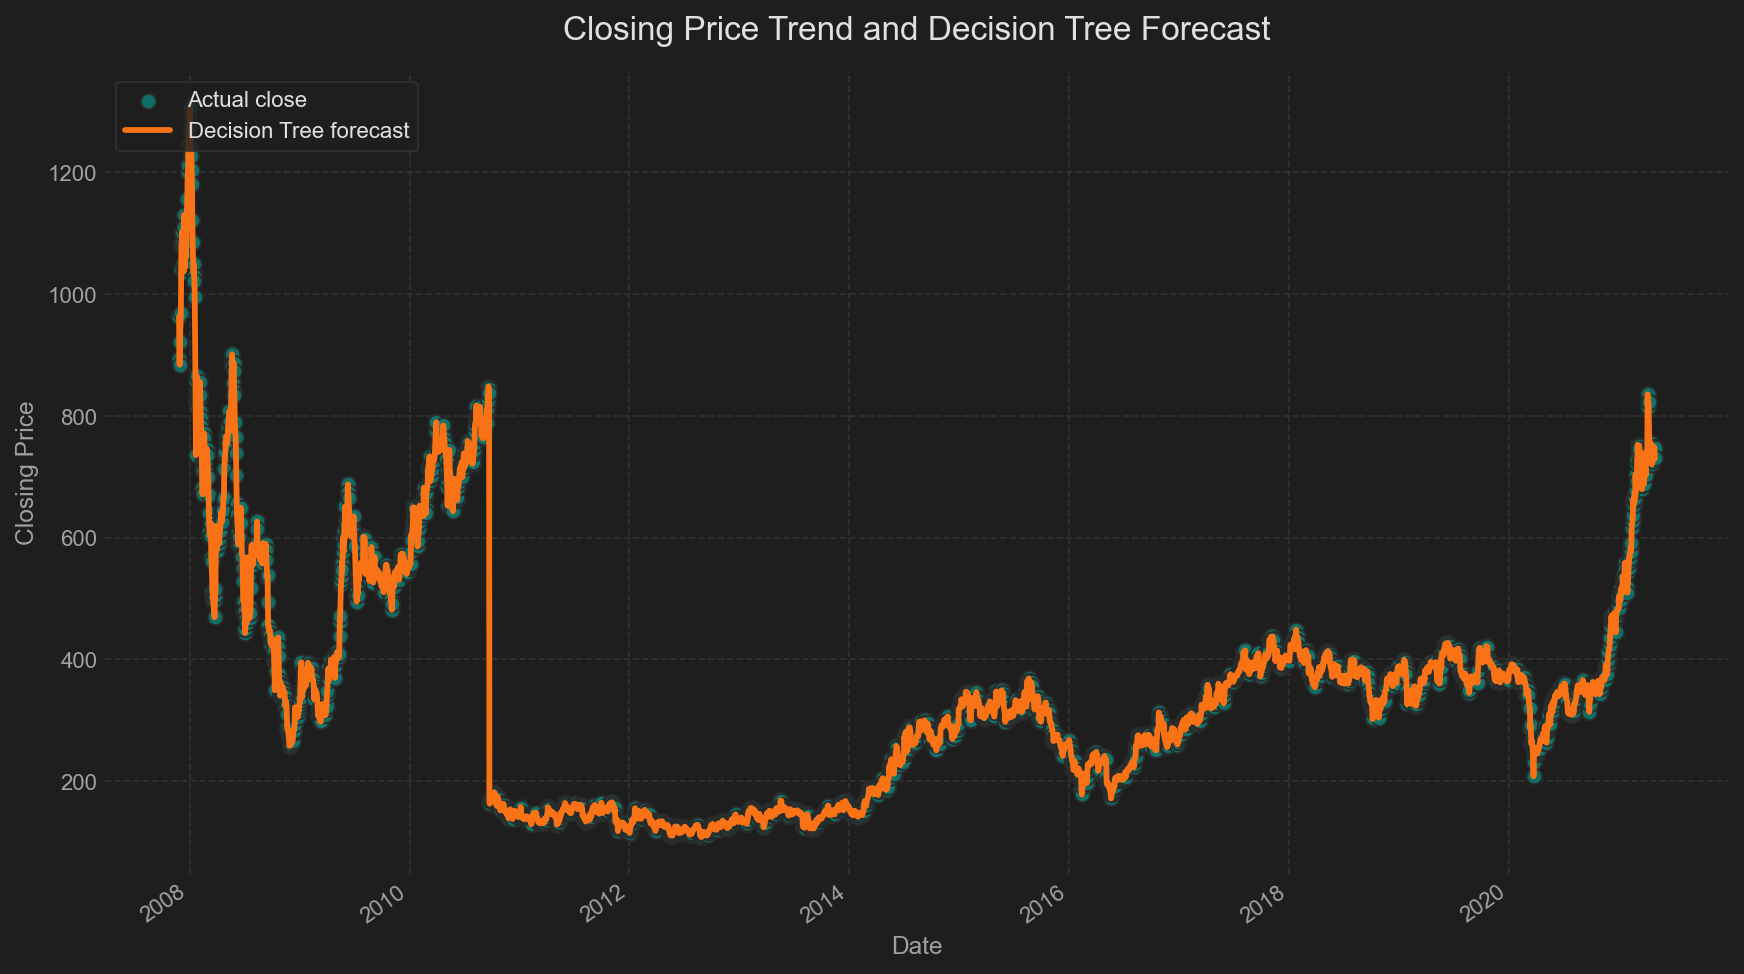
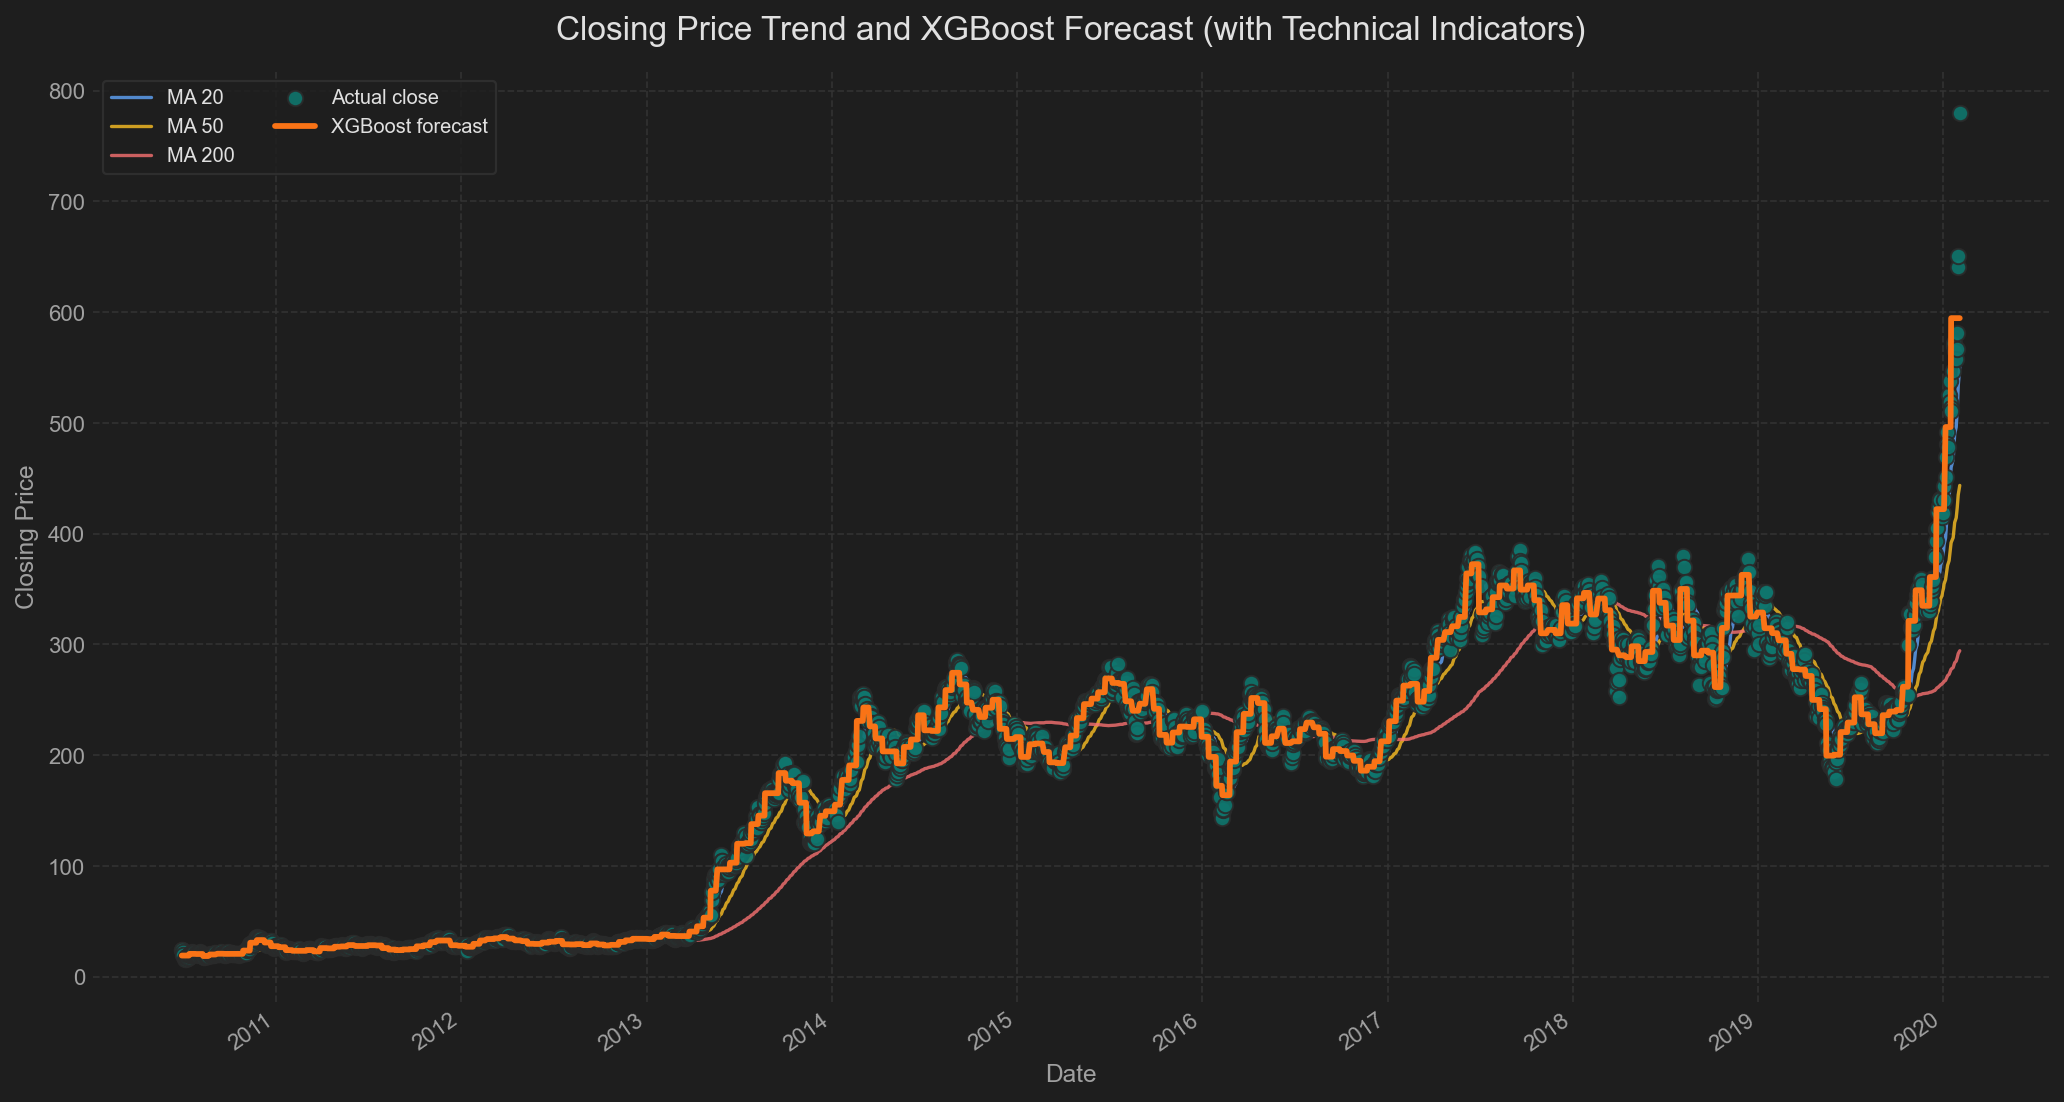
Enhance prediction model with date range filtering and technical indicators

diff --git a/templates/result.html b/templates/result.html
@@ -39,7 +39,23 @@
                             </article>
                             <article class="summary-card">
                                 <span>Latest close</span>
-                                <strong>{{ summary.latest_close }}</strong>
+                                <strong>${{ summary.latest_close }}</strong>
+                            </article>
+                            <article class="summary-card">
+                                <span>Avg daily change</span>
+                                <strong style="color: {% if summary.avg_daily_change >= 0 %}#22c55e{% else %}#ef4444{% endif %}">{{ summary.avg_daily_change }}%</strong>
+                            </article>
+                            <article class="summary-card">
+                                <span>7-day change</span>
+                                <strong style="color: {% if summary['7day_change'] >= 0 %}#22c55e{% else %}#ef4444{% endif %}">{{ summary['7day_change'] }}%</strong>
+                            </article>
+                            <article class="summary-card">
+                                <span>30-day change</span>
+                                <strong style="color: {% if summary['30day_change'] >= 0 %}#22c55e{% else %}#ef4444{% endif %}">{{ summary['30day_change'] }}%</strong>
+                            </article>
+                            <article class="summary-card">
+                                <span>Overall change</span>
+                                <strong style="color: {% if summary.overall_change >= 0 %}#22c55e{% else %}#ef4444{% endif %}">{{ summary.overall_change }}%</strong>
                             </article>
                         </section>
                     </aside>

diff --git a/templates/index.html b/templates/index.html
@@ -65,6 +65,20 @@
                             </div>
                         </div>
                     </div>
+
+                    <div class="date-range-group" style="display: grid; grid-template-columns: 1fr 1fr; gap: 1rem; width: 100%; margin-top: 0.5rem;">
+                        <div class="field-group">
+                            <label class="field-label" for="start_date">Start Date (Optional)</label>
+                            <input type="date" id="start_date" name="start_date" class="date-input">
+                            <p class="field-note">Filter data from this date onwards</p>
+                        </div>
+                        <div class="field-group">
+                            <label class="field-label" for="end_date">End Date (Optional)</label>
+                            <input type="date" id="end_date" name="end_date" class="date-input">
+                            <p class="field-note">Filter data up to this date</p>
+                        </div>
+                    </div>
+
                     <div style="width: 100%; display: flex; justify-content: center; gap: 1rem; flex-wrap: wrap;">
                         <button id="submit-button" class="primary-button" type="submit">Generate Prediction</button>
                         <button id="compare-button" class="compare-button" type="submit" form="compare-form">Compare All Models</button>

diff --git a/static/styles_index.css b/static/styles_index.css
@@ -142,7 +142,33 @@ h2 { font-size: 1.35rem; margin-bottom: 0.35rem; }
 
 .file-name { min-width: 0; color: var(--muted); overflow: hidden; text-overflow: ellipsis; white-space: nowrap; }
 
-/* ── Buttons ───────────────────────────────────────────────── */
+.date-input {
+    display: block;
+    width: 100%;
+    min-height: 48px;
+    padding: 0.75rem 0.9rem;
+    border: 1px solid var(--border);
+    border-radius: 12px;
+    background: var(--card);
+    color: var(--text);
+    font-size: 1rem;
+    font-family: inherit;
+    transition: background 0.25s, border-color 0.25s;
+}
+
+.date-input:focus {
+    outline: none;
+    border-color: var(--primary);
+    background: var(--card2);
+}
+
+.field-note {
+    margin: 0.5rem 0 0;
+    font-size: 0.85rem;
+    color: var(--muted);
+}
+
+
 .primary-button {
     display: inline-flex; align-items: center; justify-content: center;
     height: 56px; padding: 0 1.25rem; border: 0; border-radius: 12px;

diff --git a/model.py b/model.py
@@ -13,7 +13,7 @@ from sklearn.metrics import r2_score, mean_absolute_error, mean_squared_error
 from xgboost import XGBRegressor
 
 
-def _load_and_prep(filepath):
+def _load_and_prep(filepath, start_date=None, end_date=None):
     extension = os.path.splitext(filepath)[1].lower()
     data = pd.read_csv(filepath) if extension == ".csv" else pd.read_excel(filepath)
 
@@ -29,12 +29,57 @@ def _load_and_prep(filepath):
     if len(data) < 2:
         raise ValueError("At least two valid rows with Date and Close values are required.")
 
+    # Apply date range filtering if provided
+    if start_date:
+        start_date = pd.to_datetime(start_date)
+        data = data[data["Date"] >= start_date]
+    if end_date:
+        end_date = pd.to_datetime(end_date)
+        data = data[data["Date"] <= end_date]
+
+    if len(data) < 2:
+        raise ValueError("Not enough data points in the selected date range.")
+
     data["Days"] = (data["Date"] - data["Date"].min()).dt.days
+    
+    # Calculate technical indicators
+    data["MA_20"] = data["Close"].rolling(window=20).mean()
+    data["MA_50"] = data["Close"].rolling(window=50).mean()
+    data["MA_200"] = data["Close"].rolling(window=200).mean()
+    
     return data
 
 
-def run_model(filepath, model_type="Linear Regression"):
-    data = _load_and_prep(filepath)
+def _calculate_volatility_and_changes(data):
+    """Calculate percentage changes."""
+    metrics = {}
+    
+    # Daily percentage changes
+    data["Daily_Change_%"] = data["Close"].pct_change() * 100
+    metrics["avg_daily_change"] = round(data["Daily_Change_%"].mean(), 4)
+    
+    # Weekly and monthly percentage changes
+    if len(data) >= 7:
+        first_price = data["Close"].iloc[0]
+        prices_7d_ago = data["Close"].iloc[-7] if len(data) >= 7 else first_price
+        metrics["7day_change_%"] = round(((data["Close"].iloc[-1] - prices_7d_ago) / prices_7d_ago) * 100, 4)
+    else:
+        metrics["7day_change_%"] = 0.0
+    
+    if len(data) >= 30:
+        prices_30d_ago = data["Close"].iloc[-30] if len(data) >= 30 else data["Close"].iloc[0]
+        metrics["30day_change_%"] = round(((data["Close"].iloc[-1] - prices_30d_ago) / prices_30d_ago) * 100, 4)
+    else:
+        metrics["30day_change_%"] = 0.0
+    
+    overall_change = ((data["Close"].iloc[-1] - data["Close"].iloc[0]) / data["Close"].iloc[0]) * 100
+    metrics["overall_change_%"] = round(overall_change, 4)
+    
+    return metrics
+
+
+def run_model(filepath, model_type="Linear Regression", start_date=None, end_date=None):
+    data = _load_and_prep(filepath, start_date, end_date)
     X, y = data[["Days"]], data["Close"]
 
     if model_type == "Decision Tree":
@@ -50,20 +95,34 @@ def run_model(filepath, model_type="Linear Regression"):
     predictions = model.predict(X)
 
     plt.style.use("seaborn-v0_8-darkgrid")
-    fig, ax = plt.subplots(figsize=(11, 6.2), facecolor="#1e1e1e")
+    fig, ax = plt.subplots(figsize=(13, 7), facecolor="#1e1e1e")
     ax.set_facecolor("#1e1e1e")
 
+    # Plot moving averages
+    ma20_mask = data["MA_20"].notna()
+    ma50_mask = data["MA_50"].notna()
+    ma200_mask = data["MA_200"].notna()
+    
+    ax.plot(data.loc[ma20_mask, "Date"], data.loc[ma20_mask, "MA_20"], 
+            color="#60a5fa", linewidth=1.5, label="MA 20", alpha=0.8, zorder=2)
+    ax.plot(data.loc[ma50_mask, "Date"], data.loc[ma50_mask, "MA_50"], 
+            color="#fbbf24", linewidth=1.5, label="MA 50", alpha=0.8, zorder=2)
+    ax.plot(data.loc[ma200_mask, "Date"], data.loc[ma200_mask, "MA_200"], 
+            color="#f87171", linewidth=1.5, label="MA 200", alpha=0.8, zorder=2)
+
+    # Plot actual and forecast
     ax.scatter(data["Date"], data["Close"], label="Actual close",
                color="#0f766e", s=48, alpha=0.9, edgecolors="#2a2a2a", linewidths=0.9, zorder=3)
     ax.plot(data["Date"], predictions, color="#f97316", linewidth=2.6,
             label=f"{model_type} forecast", zorder=4)
 
-    ax.set_title(f"Closing Price Trend and {model_type} Forecast", fontsize=15, pad=14, color="#e0e0e0")
+    ax.set_title(f"Closing Price Trend and {model_type} Forecast (with Technical Indicators)", 
+                 fontsize=15, pad=14, color="#e0e0e0")
     ax.set_xlabel("Date", fontsize=11, color="#a0a0a0")
     ax.set_ylabel("Closing Price", fontsize=11, color="#a0a0a0")
     ax.grid(True, color="#333333", linestyle="--", linewidth=0.8, alpha=0.9)
     ax.legend(loc="upper left", frameon=True, facecolor="#1e1e1e",
-              edgecolor="#333333", fontsize=10, labelcolor="#e0e0e0")
+              edgecolor="#333333", fontsize=9, labelcolor="#e0e0e0", ncol=2)
     ax.tick_params(colors="#a0a0a0")
     for spine in ax.spines.values():
         spine.set_color("#333333")
@@ -75,11 +134,18 @@ def run_model(filepath, model_type="Linear Regression"):
     fig.savefig(graph_path, dpi=160, bbox_inches="tight")
     plt.close(fig)
 
+    # Calculate volatility and percentage changes
+    metrics = _calculate_volatility_and_changes(data)
+
     summary = {
         "points": len(data),
         "start_date": data["Date"].min().strftime("%d %b %Y"),
         "end_date": data["Date"].max().strftime("%d %b %Y"),
         "latest_close": f"{data['Close'].iloc[-1]:.2f}",
+        "avg_daily_change": metrics["avg_daily_change"],
+        "7day_change": metrics["7day_change_%"],
+        "30day_change": metrics["30day_change_%"],
+        "overall_change": metrics["overall_change_%"],
     }
     return graph_path, summary
 

diff --git a/app.py b/app.py
@@ -68,11 +68,13 @@ def index():
                 error = "Unsupported file type. Upload a .csv, .xls, or .xlsx file."
             else:
                 model_type = request.form.get("model_type", "Linear Regression")
+                start_date = request.form.get("start_date") or None
+                end_date = request.form.get("end_date") or None
                 filepath = os.path.join(app.config["UPLOAD_FOLDER"], uploaded_name)
                 file.save(filepath)
 
                 try:
-                    graph_path, summary = run_model(filepath, model_type)
+                    graph_path, summary = run_model(filepath, model_type, start_date, end_date)
                     graph = url_for("static", filename=os.path.basename(graph_path), v=int(time.time()))
                     return render_template(
                         "result.html",
